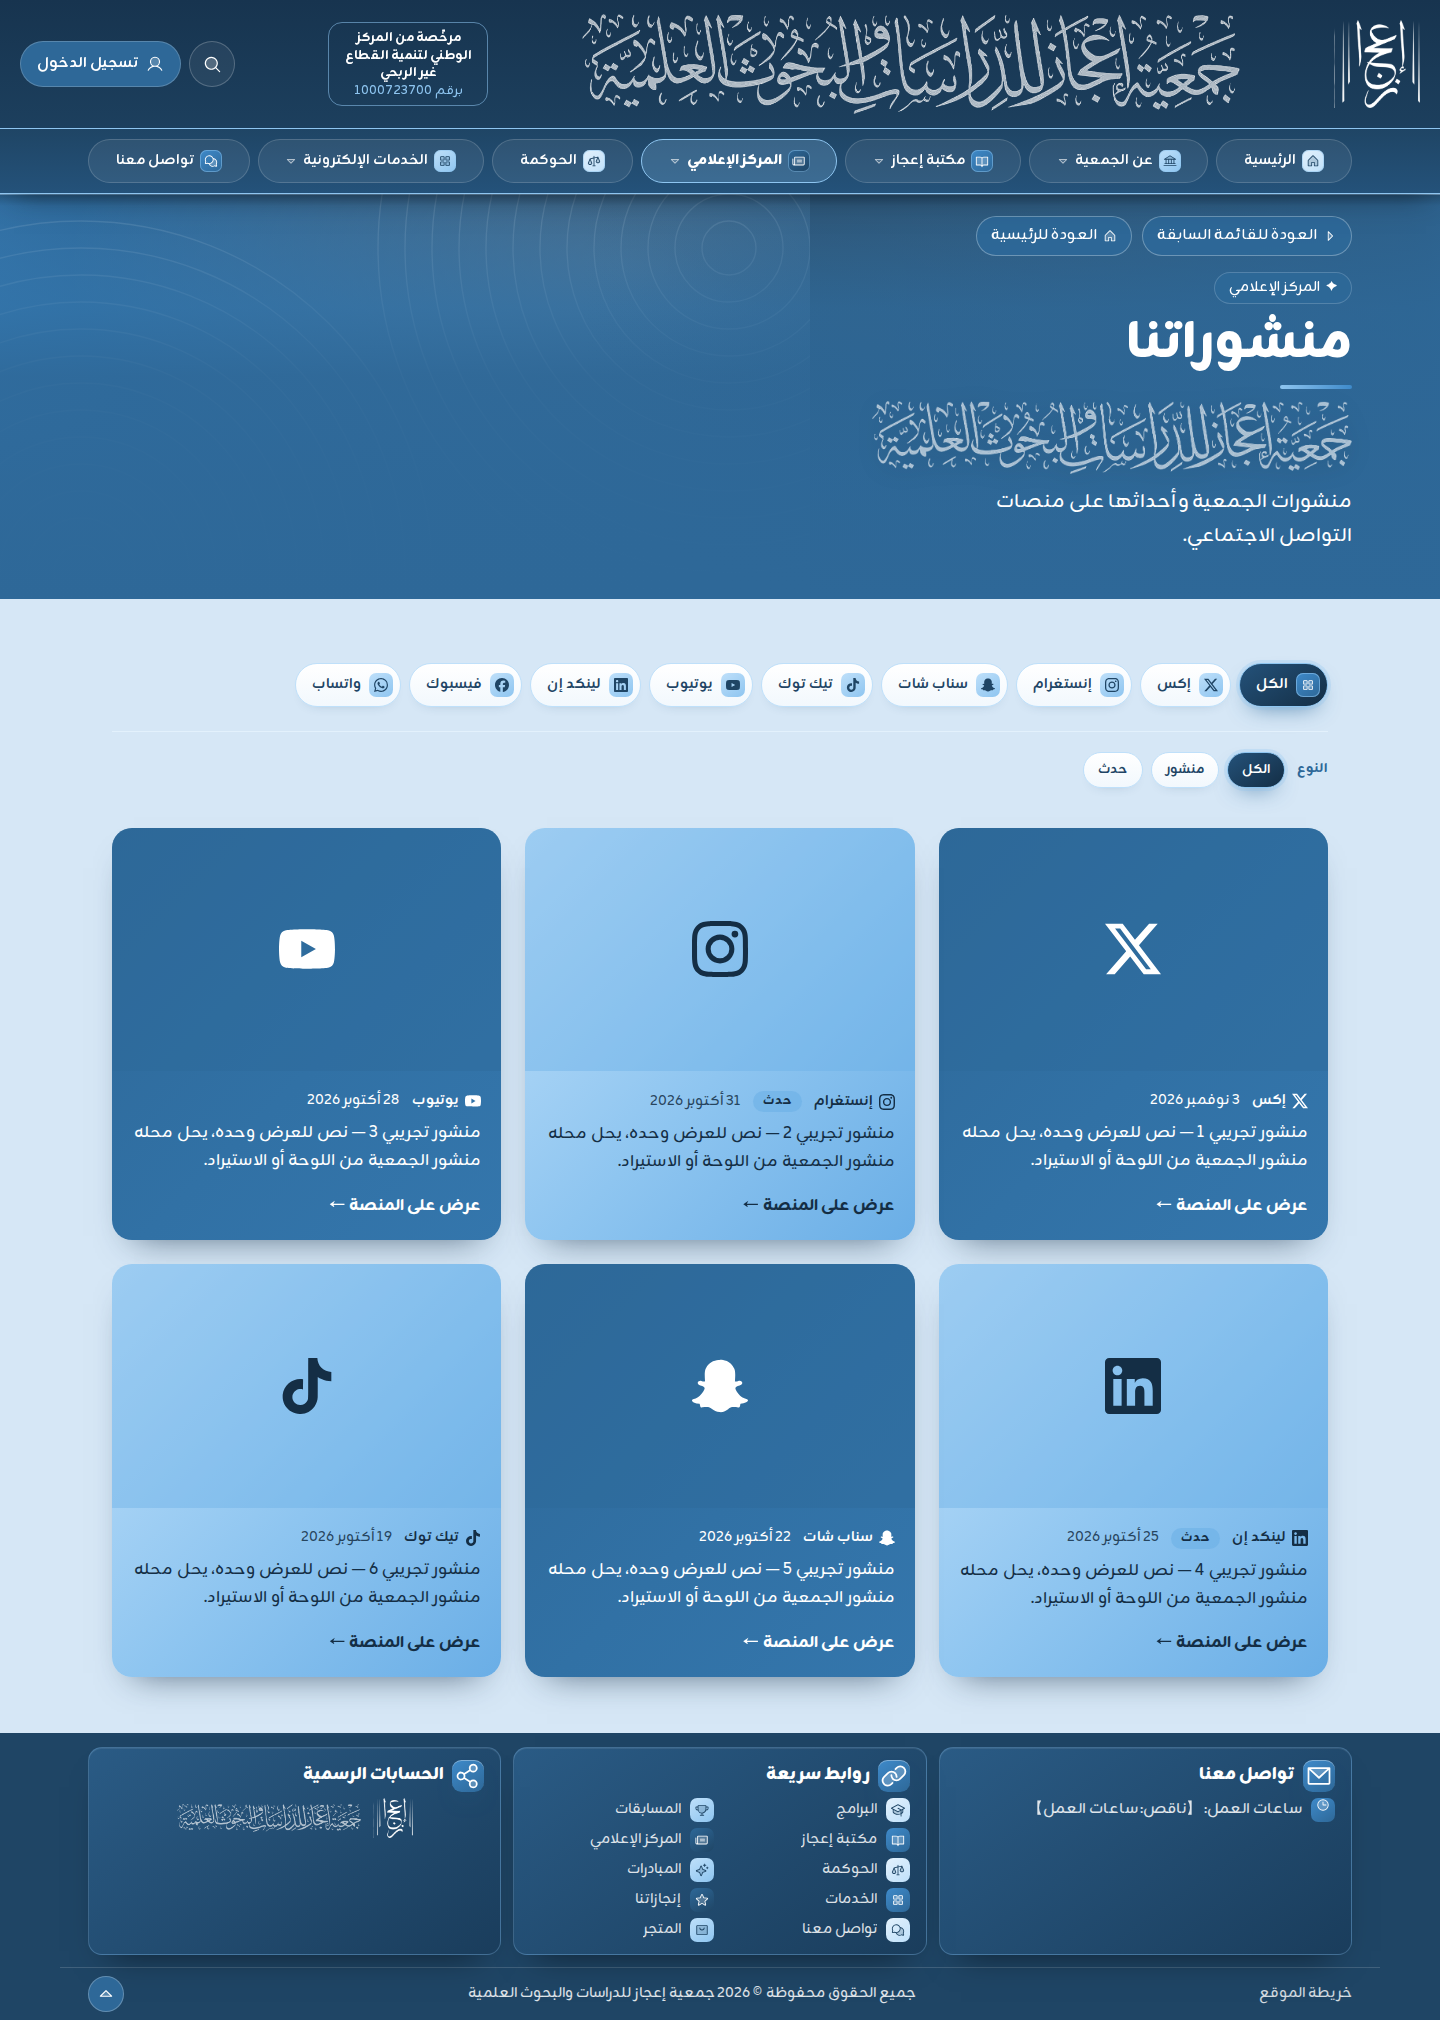
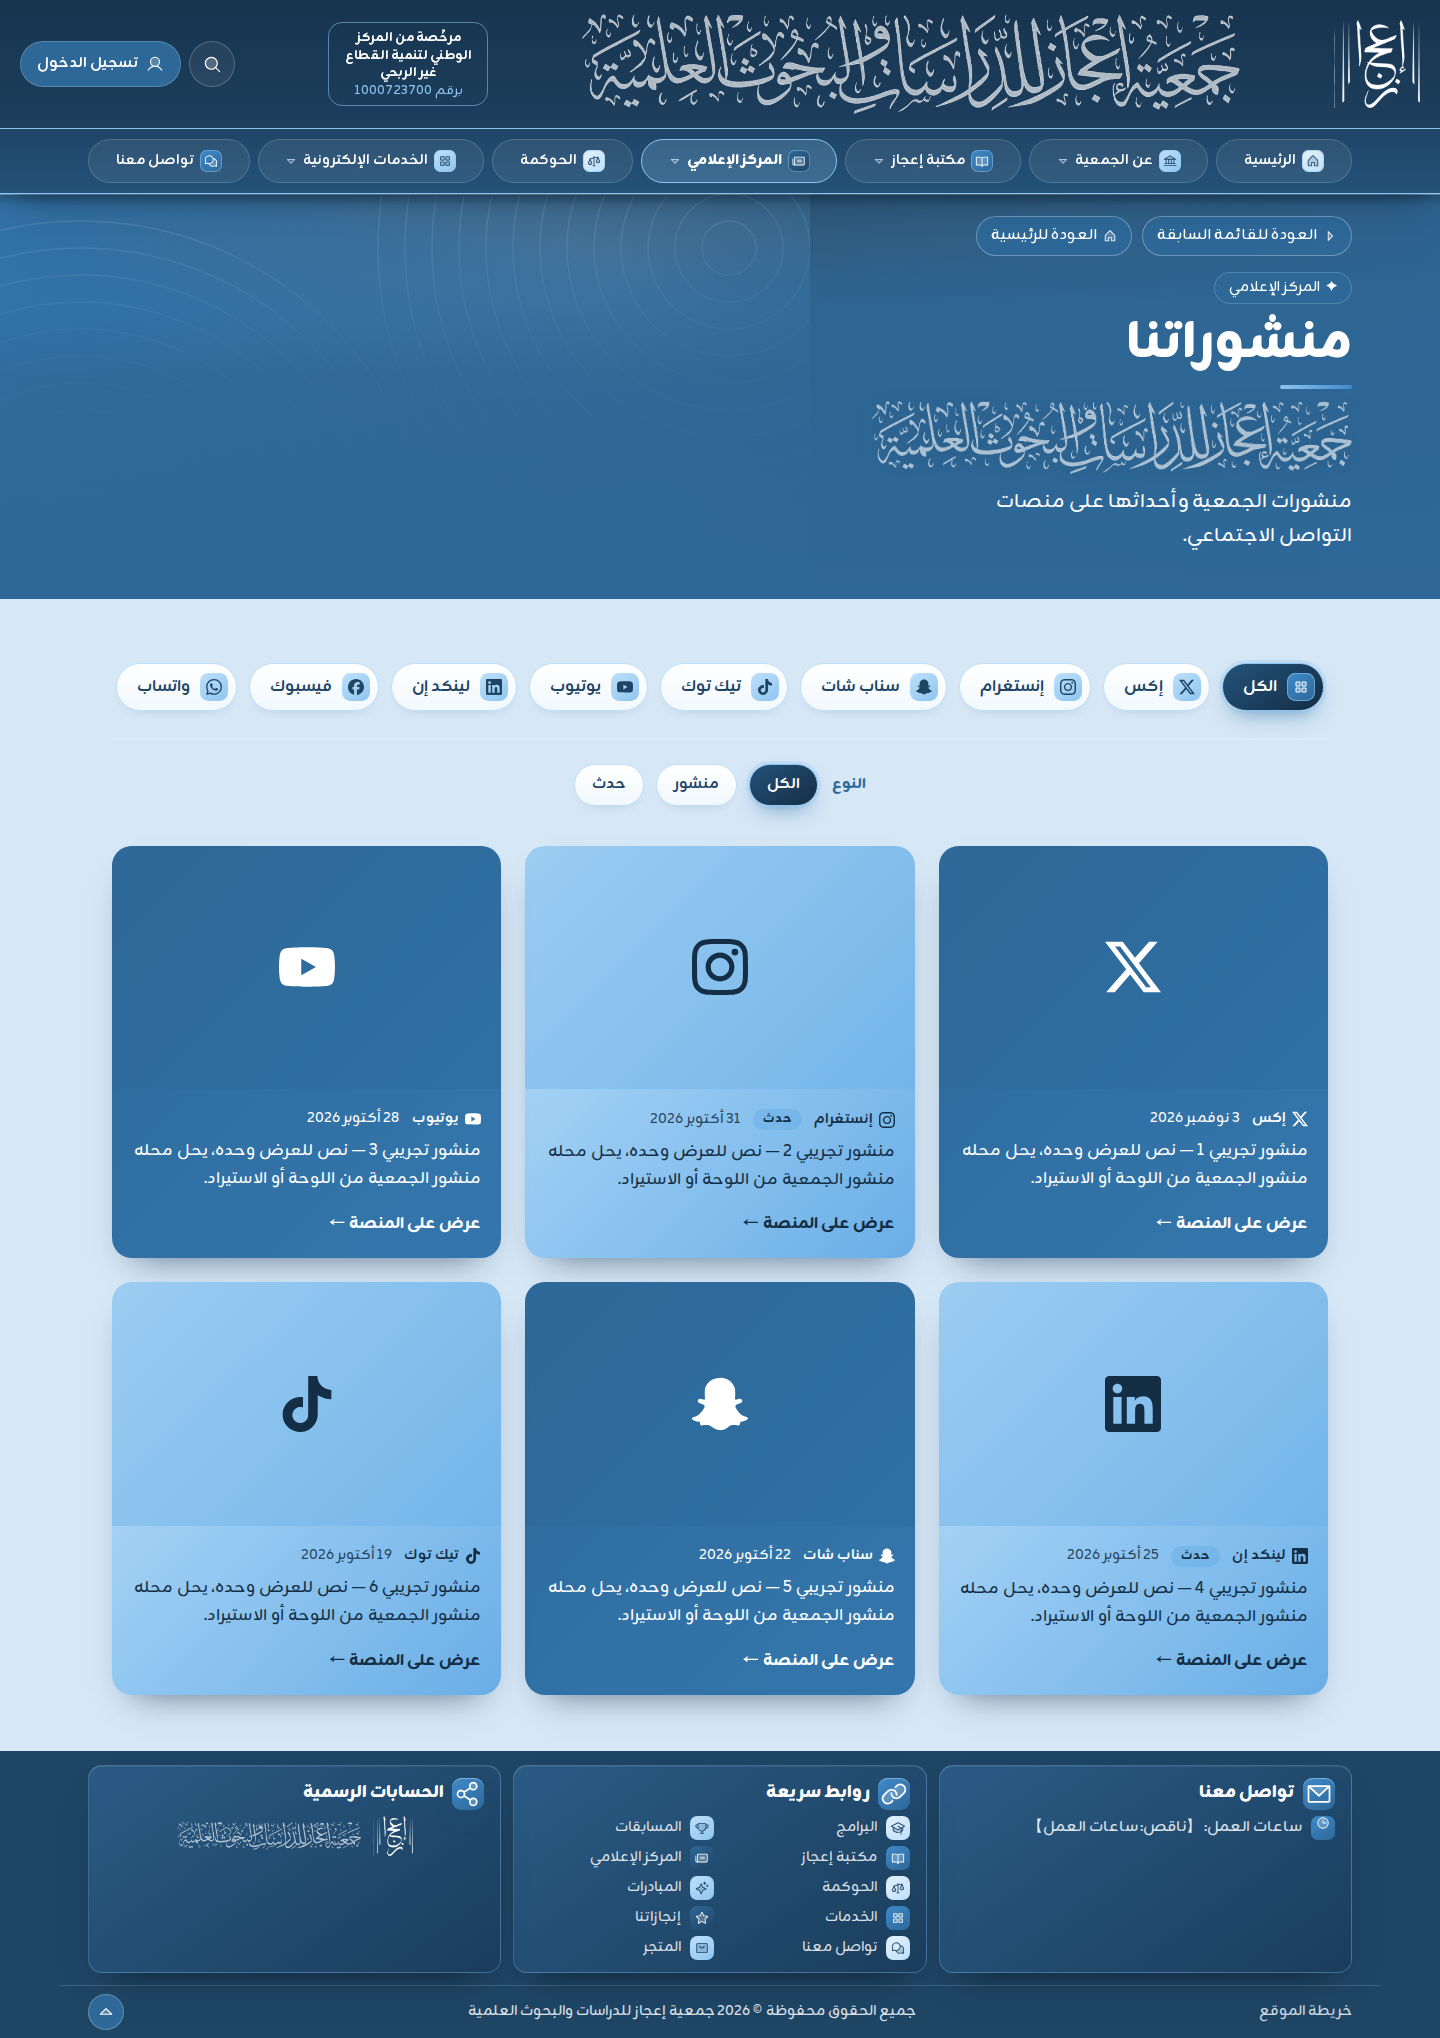
fix(media): larger platform pills, and no "#165" read as a green colour
- CI failed on 471d8e24 in BlueOnlyPaletteTest: the comment reference "#165"
  in four files parses as the short hex colour #116655 (green). Reworded to
  "طلب الدمج 165"; the palette test passes again.
- Safwan asked for the platform strip "a little bigger" (~20%): pills 48px on
  desktop and 44px on the phone, a 28px logo tile, 16px text, wider gaps. The
  type strip grows by the same ratio and stays smaller (42/40px). On desktop
  the strip is one row at 1440 and wraps centred when narrower.
- Browser test asserts the sizes, the single row at 1440 and centred rows at 820.

diff --git a/resources/css/social-filters.css b/resources/css/social-filters.css
@@ -1,16 +1,18 @@
 /*
-| شريط تصفية «منشوراتنا» بالمنصة والنوع (ملاحظة صفوان على #165، 4 نوفمبر 2026 — docs/decisions/2026-11-04-social-posts.md):
+| شريط تصفية «منشوراتنا» بالمنصة والنوع (ملاحظة صفوان على طلب الدمج 165، 4 نوفمبر 2026 — docs/decisions/2026-11-04-social-posts.md):
 | - كبسولات بارتفاع وحشو واحد، لكل منصة شعارها في مربع أيقونة صغير متدرج (x-icon-tile بحجم xs ودرجة light).
 | - النشطة زرقاء داكنة بحد #8EC5F0 وتوهج خفيف، والمرور يرفعها قليلاً، والحركة بـ --motion فتتوقف لمن طلب تقليلها.
 | - على الجوال شريط أفقي يُمرَّر داخله بلا التفاف ولا تمرير للصفحة، بتلاشٍ عند حافته. ومن 640 بكسل يلتف كما كان.
 | - النوع شريط أصغر منفصل بعنوانه.
+| - «يكبر شوية» (صفوان، 4 نوفمبر 2026، 14:14): نحو 20% أكبر. الكبسولة 48 بكسل على الحاسوب و44 على الجوال (حد اللمس)، ومربعها 28،
+|   وخطها درجة أكبر، ومسافاتها أوسع. والنوع بالنسبة نفسها ويبقى أصغر. وعلى الحاسوب صف واحد إن اتسع، وإلا يلتف في الوسط.
 | والأزرق وحده من رموز app.css.
 */
 
 .social-filters {
     display: flex;
     flex-direction: column;
-    gap: 1rem;
+    gap: 1.25rem;
 }
 
 .social-filter {
@@ -21,7 +23,7 @@
 .social-filter-track {
     display: flex;
     flex-wrap: nowrap;
-    gap: 0.5rem;
+    gap: 0.625rem;
     overflow-x: auto;
     overscroll-behavior-inline: contain;
     scroll-snap-type: inline proximity;
@@ -52,6 +54,8 @@
 @media (min-width: 40rem) {
     .social-filter-track {
         flex-wrap: wrap;
+        justify-content: center;
+        gap: 0.75rem;
         overflow: visible;
         padding-inline: 0;
         -webkit-mask-image: none;
@@ -70,18 +74,18 @@
 .social-filter-pill {
     display: inline-flex;
     align-items: center;
-    gap: 0.5rem;
+    gap: 0.625rem;
     min-height: 2.75rem;
     padding-block: 0.375rem;
     /* بداية الكبسولة لمربع الأيقونة، فحشوها أضيق من نهايتها */
-    padding-inline: 0.4375rem 1rem;
+    padding-inline: 0.5rem 1.25rem;
     border: 1px solid var(--blue-200);
     border-radius: 999px;
     background: linear-gradient(180deg, #fff 0%, var(--blue-50) 100%);
     color: var(--blue-900);
-    font-size: 0.875rem;
+    font-size: 1rem;
     font-weight: 700;
-    line-height: 1.25rem;
+    line-height: 1.5rem;
     white-space: nowrap;
     box-shadow: 0 6px 14px -12px rgb(31 69 101 / 0.45);
     transition:
@@ -100,6 +104,23 @@
 .social-filter-pill:focus-visible {
     outline: 2px solid var(--blue-600);
     outline-offset: 2px;
+}
+
+/* مربع الشعار 28 بكسل، ورسمه 16 */
+.social-filter-pill > .icon-tile {
+    width: 1.75rem;
+    height: 1.75rem;
+}
+
+.social-filter-pill > .icon-tile > svg {
+    width: 1rem;
+    height: 1rem;
+}
+
+@media (min-width: 40rem) {
+    .social-filter-pill {
+        min-height: 3rem;
+    }
 }
 
 /* المربع يرتفع مع الكبسولة لا وحده داخلها */
@@ -128,8 +149,8 @@
 .social-filter-kind {
     display: flex;
     align-items: center;
-    gap: 0.75rem;
-    padding-block-start: 0.75rem;
+    gap: 0.875rem;
+    padding-block-start: 1rem;
     border-block-start: 1px solid var(--blue-100);
 }
 
@@ -140,14 +161,27 @@
 .social-filter-label {
     flex-shrink: 0;
     color: var(--blue-700);
-    font-size: 0.8125rem;
+    font-size: 0.9375rem;
     font-weight: 800;
 }
 
+/* النوع أصغر من المنصات بالنسبة نفسها: 40 بكسل على الجوال و42 على الحاسوب */
 .social-filter-pill-sm {
-    min-height: 2.25rem;
-    padding-inline: 0.875rem;
-    font-size: 0.8125rem;
+    min-height: 2.5rem;
+    padding-block: 0.375rem;
+    padding-inline: 1.0625rem;
+    font-size: 0.9375rem;
+    line-height: 1.375rem;
+}
+
+@media (min-width: 40rem) {
+    .social-filter-kind {
+        justify-content: center;
+    }
+
+    .social-filter-pill-sm {
+        min-height: 2.625rem;
+    }
 }
 
 @media (prefers-reduced-motion: reduce) {

diff --git a/resources/js/social-filters.js b/resources/js/social-filters.js
@@ -1,5 +1,5 @@
 // شريط تصفية «منشوراتنا» يُمرَّر أفقياً على الجوال (social-filters.css)، فالمنصة المختارة من آخره تبقى خارجه بعد التنقّل.
-// فتُوسَّط الكبسولة النشطة داخل الشريط وحده، لا الصفحة (scrollIntoView يحرك الصفحة رأسياً). ملاحظة صفوان على #165، 4 نوفمبر 2026.
+// فتُوسَّط الكبسولة النشطة داخل الشريط وحده، لا الصفحة (scrollIntoView يحرك الصفحة رأسياً). ملاحظة صفوان على طلب الدمج 165، 4 نوفمبر 2026.
 import { onPage } from './page';
 
 onPage(() => {

diff --git a/resources/css/app.css b/resources/css/app.css
@@ -10,7 +10,7 @@
 @import './concept.css';
 /* الإعلانات والأخبار في الرئيسية (ملاحظة صفوان ٣٠): أصناف مستقلة عن ألوان الملاحظة ٢٩ */
 @import './feed.css';
-/* شريط تصفية «منشوراتنا» بالمنصة والنوع (ملاحظة صفوان على #165، 4 نوفمبر 2026) */
+/* شريط تصفية «منشوراتنا» بالمنصة والنوع (ملاحظة صفوان على طلب الدمج 165، 4 نوفمبر 2026) */
 @import './social-filters.css';
 
 @source '../views';

diff --git a/resources/views/media/social/index.blade.php b/resources/views/media/social/index.blade.php
@@ -12,7 +12,7 @@
 
 <section class="py-10 sm:py-14">
     <div class="container-page">
-        {{-- شريط التصفية (ملاحظة صفوان على #165): كبسولة لكل منصة بشعارها في مربع أيقونة صغير، وتحته النوع شريطاً أصغر بعنوانه.
+        {{-- شريط التصفية (ملاحظة صفوان على طلب الدمج 165): كبسولة لكل منصة بشعارها في مربع أيقونة صغير، وتحته النوع شريطاً أصغر بعنوانه.
              الأنماط في resources/css/social-filters.css --}}
         <div class="social-filters">
             <nav aria-label="{{ __('social_posts.list.filter_platform') }}" class="social-filter" data-social-filter="platform">

diff --git a/docs/decisions/2026-11-04-social-posts.md b/docs/decisions/2026-11-04-social-posts.md
@@ -42,6 +42,7 @@
       - النشطة زرقاء داكنة بحد #8EC5F0 وتوهج خفيف، والمرور يرفعها 2 بكسل، ولا حركة لمن طلب تقليلها.
       - على الجوال صف واحد يُمرَّر داخله بتلاشٍ عند حافته، والكبسولة النشطة تُوسَّط فيه بعد التنقّل (`resources/js/social-filters.js`، داخل الشريط وحده لا الصفحة). ومن 640 بكسل يلتف.
       - النوع شريط أصغر منفصل بعنوان «النوع».
+      - «يكبر شوية» (صفوان، 4 نوفمبر 2026، 14:14): نحو 20% أكبر. الكبسولة 48 بكسل على الحاسوب و44 على الجوال حداً للمس، ومربع الشعار 28، والخط 16، والمسافات أوسع. والنوع 42 و40 فيبقى أصغر. وعلى الحاسوب صف واحد إن اتسع (1440)، وإلا يلتف وكل صف في الوسط.
   - **بلاطات المركز الإعلامي** خمس:
     - صف واحد على الحاسوب.
     - والأخيرة بعرض كامل في عمودي الجوال، فلا تبقى وحدها نصف صف.
